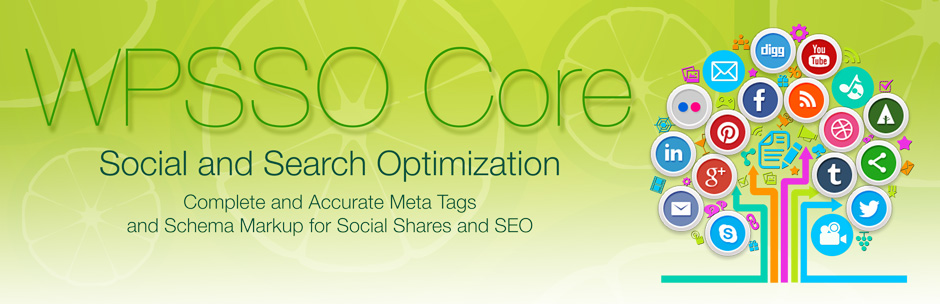
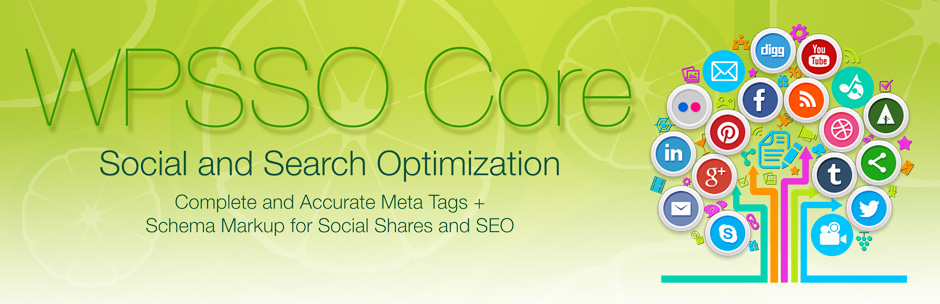
non-essential support files (documentation and assets)

Changed region(s): [[0.1234, 0.6217, 0.5862, 0.7697]]

diff --git a/index.html b/index.html
@@ -25,7 +25,7 @@
         </ul>
       </header>
       <section>
-<h1>WPSSO Core</h1><h3>Complete and Accurate Meta Tags and Schema Markup for Social Shares and SEO</h3>
+<h1>WPSSO Core</h1><h3>Complete and Accurate Meta Tags + Schema Markup for Social Shares and SEO</h3>
 
 <table>
 <tr><th align="right" valign="top" nowrap>Plugin Name</th><td>WPSSO Core [Main Plugin]</td></tr>
